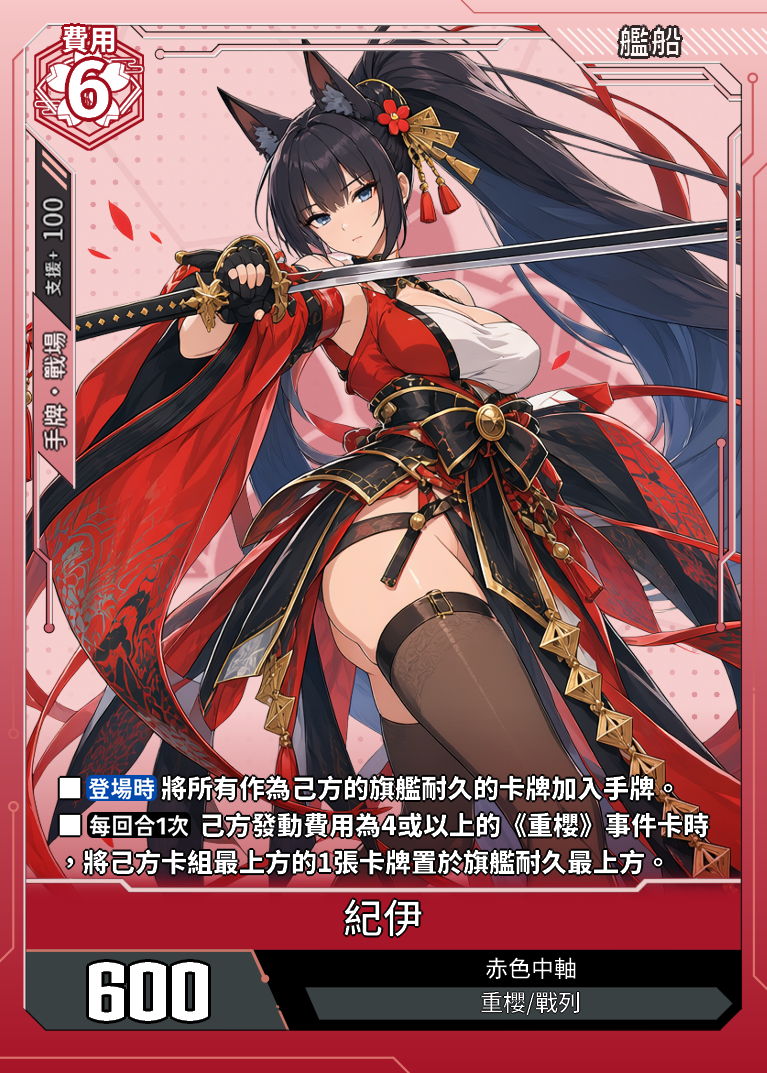
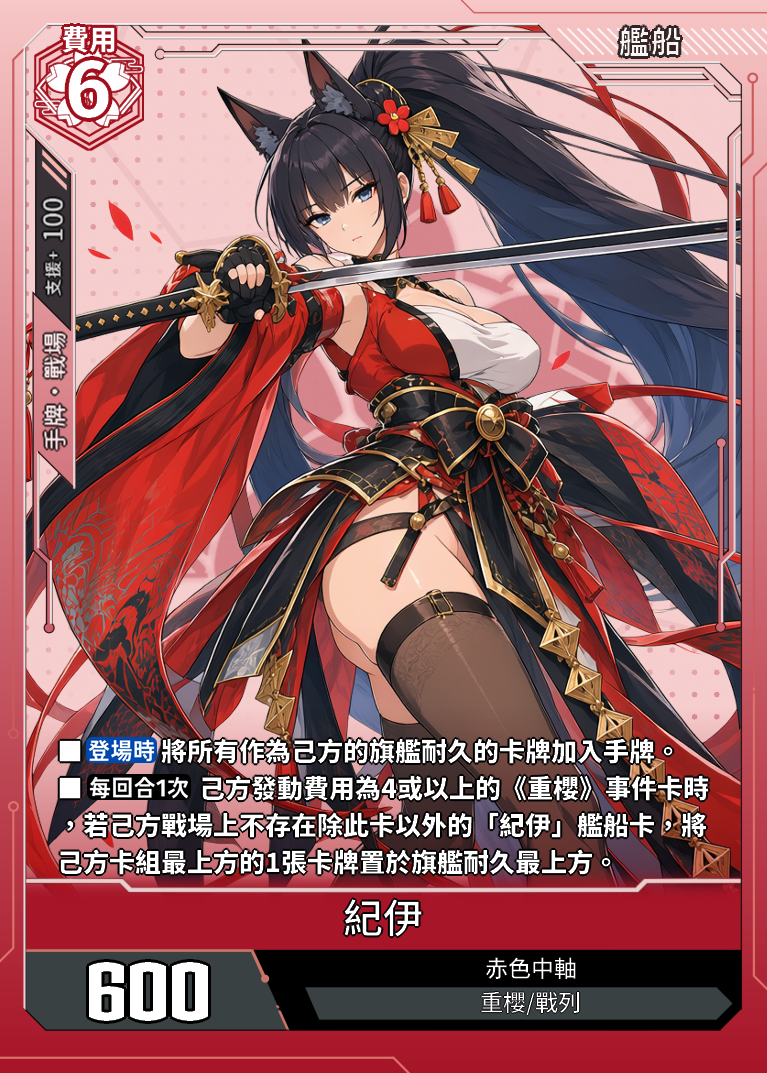
削弱紀伊以及飛龍

Changed region(s): [[0.06, 0.6766, 0.9296, 0.8304]]

diff --git a/data.js b/data.js
@@ -26523,7 +26523,7 @@ const cards = [
             "支援範圍": "手牌·戰場",
             "支援值": "100"
         },
-        "card_effect": "■【登場時】將所有作為己方的旗艦耐久的卡牌加入手牌。■【每回合1次】己方發動費用為4或以上的《重櫻》事件卡時，將己方卡組最上方的1張卡牌置於旗艦耐久最上方。",
+        "card_effect": "■【登場時】將所有作為己方的旗艦耐久的卡牌加入手牌。■【每回合1次】己方發動費用為4或以上的《重櫻》事件卡時，若己方戰場上不存在除此卡以外的「紀伊」艦船卡，將己方卡組最上方的1張卡牌置於旗艦耐久最上方。",
         "acquisition_method": "CE03-早期測試"
     },
 	{
@@ -26572,7 +26572,7 @@ const cards = [
             "顏　色": "紅",
             "種　類": "艦船卡",
             "費　用": "5",
-            "戰　力": "500",
+            "戰　力": "400",
             "陣　營": "重櫻",
             "艦船類型": "航母",
             "罕　貴": "-",
